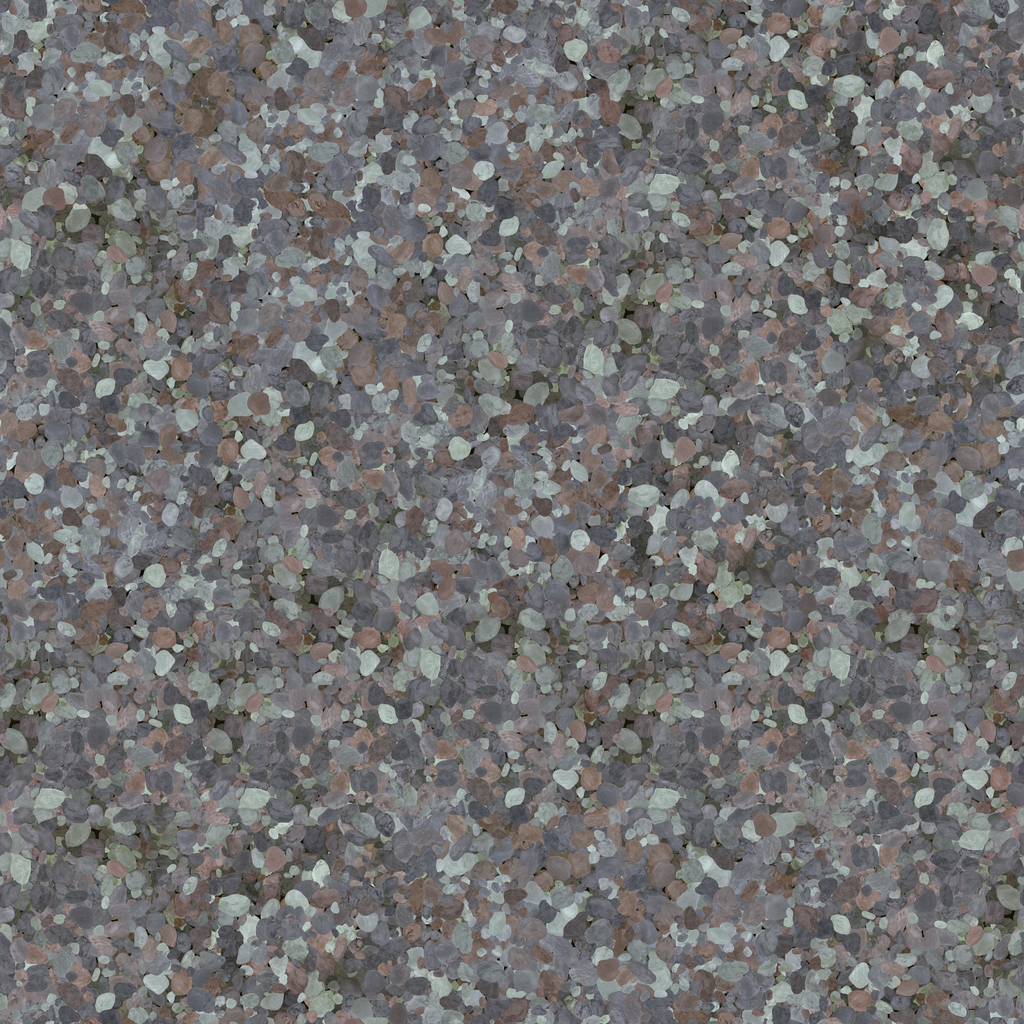
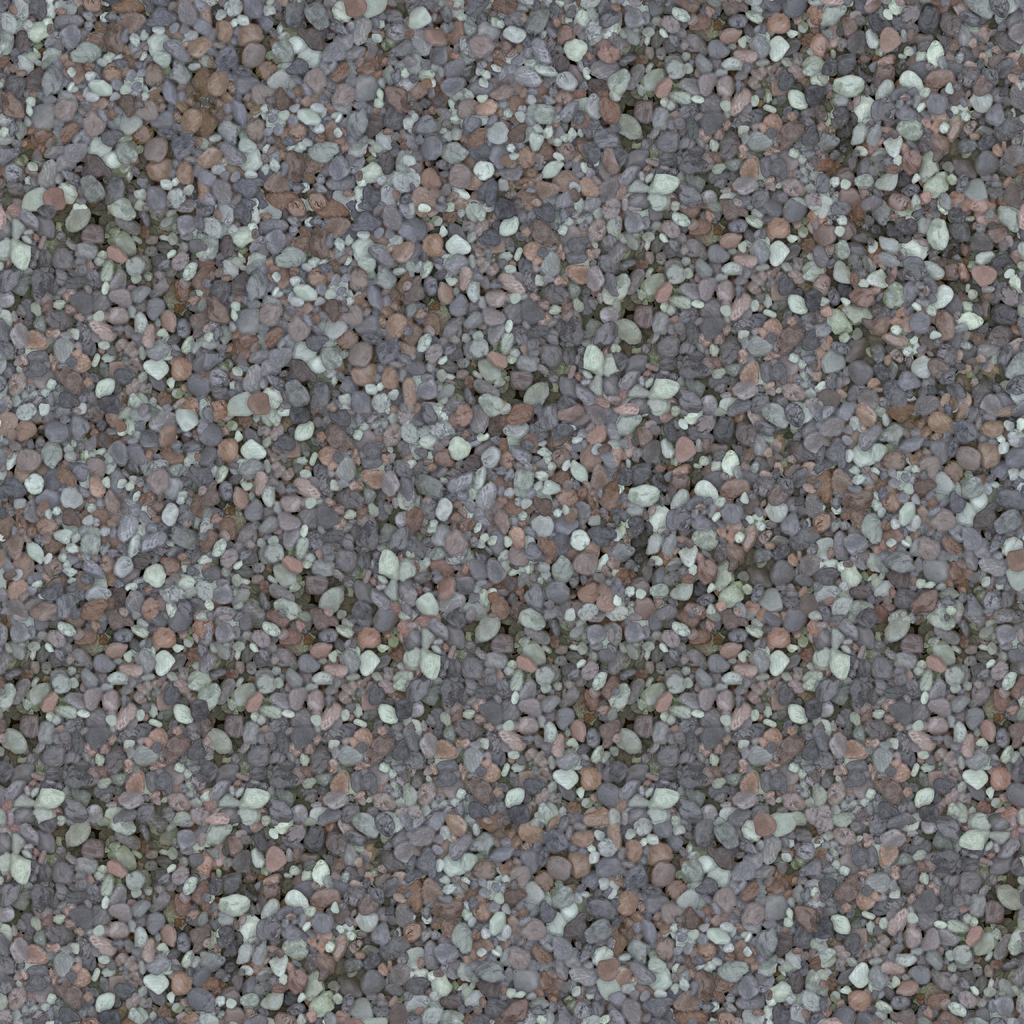
feat(pbr): world-scale families, AO+contrast albedo bake, tess heights; capture notes (wave 29)

diff --git a/tools/pbr_pack.py b/tools/pbr_pack.py
@@ -173,13 +173,18 @@ def linear_to_srgb(c):
     return np.where(c <= 0.0031308, c * 12.92, 1.055 * c ** (1 / 2.4) - 0.055)
 
 
-def detail_albedo(image, size):
-    """Neutral mean, mean linear luminance MEAN_LUMINANCE, local hue/value variation kept."""
+def detail_albedo(image, size, ao=None, contrast=1.0):
+    """Neutral mean, mean linear luminance MEAN_LUMINANCE, local hue/value variation kept. The source AO is
+    multiplied in (the original textures carry baked joint/crevice darkening) and the luminance deviation from
+    the mean is raised to `contrast` so joints read through the renderer's blurred-original tint."""
     rgb = srgb_to_linear(np.asarray(square(image.convert('RGB'), size)).astype(np.float64) / 255)
-    rgb = rgb / rgb.reshape(-1, 3).mean(0) * MEAN_LUMINANCE
-    # Clip-aware: highlights above 1 are rare at 0.18 mean; renormalise once after clipping.
-    rgb = np.clip(rgb, 0, 1)
-    rgb = rgb / (rgb.reshape(-1, 3).mean(0) / MEAN_LUMINANCE)
+    if ao is not None:
+        rgb = rgb * np.asarray(Image.fromarray(np.round(ao * 255).astype(np.uint8)).resize((size, size), Image.BICUBIC))[..., None] / 255
+    if contrast != 1.0:
+        lum = np.maximum(rgb @ LUMA, 1e-5)
+        rgb = rgb * ((lum / lum.mean()) ** (contrast - 1))[..., None]
+    for _ in range(3):  # clip-aware renormalisation to the neutral 0.18 mean
+        rgb = np.clip(rgb / rgb.reshape(-1, 3).mean(0) * MEAN_LUMINANCE, 0, 1)
     return Image.fromarray(np.round(linear_to_srgb(rgb) * 255).astype(np.uint8))
 
 
@@ -215,10 +220,10 @@ def build_material(spec, params, zf, out):
         a = np.asarray(square(image, w).resize((w // repeat, w // repeat), Image.LANCZOS))
         return Image.fromarray(np.tile(a, (repeat, repeat) + (1,) * (a.ndim - 2)))
 
-    if not spec.get('micro'):
-        detail_albedo(load('Color'), size).save(out / 'albedo.png', optimize=True)
-    normal_map(load('NormalGL'), size, spec.get('normal_strength', 1.0)).save(out / 'normal.png', optimize=True)
     ao = gray(load('AmbientOcclusion'), aux, 1.0)
+    if not spec.get('micro'):
+        detail_albedo(load('Color'), size, ao, spec.get('contrast', 1.0)).save(out / 'albedo.png', optimize=True)
+    normal_map(load('NormalGL'), size, spec.get('normal_strength', 1.0)).save(out / 'normal.png', optimize=True)
     rough = np.clip(gray(load('Roughness'), aux, 0.65) + spec.get('roughness_bias', 0.0), 0.04, 1)
     metal = gray(load('Metalness'), aux, 0.0) * spec.get('metal_scale', 1.0)
     orm = np.stack([ao, rough, metal], -1)

diff --git a/docs/KNOWN_ISSUES.md b/docs/KNOWN_ISSUES.md
@@ -30,7 +30,7 @@
 - **RT horizon frame rate (wave 28, NONCANONICAL):** GI and glossy-reflection rays started from blended alpha-tested draws (foliage, grass) skip the alpha test, so neighbouring leaf and blade quads occlude them as whole quads. Sun rays keep the test. Crops matched at the noise floor, but a very sparse leaf texture right next to a lit surface could now darken its GI slightly. Looking at the horizon is still about 2× the default view in RT faithful: hidden layers of blended foliage are still shaded, because blended draws do not write depth, and GI from far opaque surfaces is incoherent. A depth prepass for blended draws would save another 1.3–6.6 ms but changes tree trunks that show their inner faces today; an exact version needs a draw-order owner buffer (`analysis/porting-wave28/Horizon/`).
 - **Sparse far indirect (wave 28, NONCANONICAL, Vulkan RT with the guided denoiser):** beyond view depth 100, GI and glossy-reflection rays are traced once per 16 frames per pixel; the resolve fills the gaps from neighbours and history. Pixels without resolved history (seabed seen through the water, disocclusions) still trace every frame. Converged static images match at the run-to-run noise floor. Far indirect light now reacts more slowly: a far moving caster's indirect shadow or a sudden far lighting change takes up to 16× more frames to settle. Layers under semi-transparent foliage use the reprojected previous estimate in their raw colour, which is wrong at reprojection edges. Frame-generation GPU timings were not measured reliably on the 60 Hz private compositor. `IKV_RT_SPARSE_GI=0` restores full tracing.
 - **GL/Vulkan fog parity (wave 28, NONCANONICAL, enhanced appearance):** enhanced GL now applies the record fog and tonemaps its backdrop and sky domes like Vulkan, so enhanced GL far land is as white-hazed as Vulkan's and the original's (by design: the record fog, not the weather) and its skyless-zone sky is brighter than before. Residual GL vs Vulkan difference: alpha-blended tree canopies are blended in display space on GL and in linear HDR on Vulkan (Eminönü park canopy up to ~10 luma lighter on Vulkan), as with particles. Only Sivri Ada and the Eminönü park were captured. `analysis/porting-wave28/Fog/`.
-- **PBR texture pack (wave 29, NONCANONICAL, enhanced appearance only):** surfaces mapped to a family material show the CC0 pack's pattern, not the original's: cobbles, slabs, bricks and planks keep each surface's original brightness and hue (blurred original × detail-normalised pack albedo) but the stone/brick/plank layout, joint widths and feature size come from the pack (tread-plate diamonds are ~3× finer than the originals, the herringbone runs diagonally; hexagon paving is tiled 2×2 to match). The pack's planks run horizontally in texture space, so vertically authored plank textures were moved to micro-detail instead. 76 of the 503 eligible keys stay unmapped (signs, posters, clothes, foliage, weapons, books, cables, placeholders); 301 atlas keys get only world-space micro normal/roughness detail with the original albedo. Height is a 512² 16-bit map, so tessellated cobbles are soft at close range. Families were classified by eye from contact sheets; misclassified keys are fixed by editing `assets/pbr/manifest.json` (`tools/pbr_pack.py preview` shows each family against its originals).
+- **PBR texture pack (wave 29, NONCANONICAL, enhanced appearance only):** surfaces mapped to a family material show the CC0 pack's pattern, not the original's: cobbles, slabs, bricks and planks keep each surface's original brightness and hue (blurred original × detail-normalised pack albedo) but the stone/brick/plank layout, joint widths and feature size come from the pack (world-space projection at a real-world tile size, so courses and joints do not follow the original UV layout or wall edges; the herringbone runs diagonally). The pack's planks are projected along one world axis, so vertically authored plank textures were moved to micro-detail instead. 76 of the 503 eligible keys stay unmapped (signs, posters, clothes, foliage, weapons, books, cables, placeholders); 301 atlas keys get only world-space micro normal/roughness detail with the original albedo. Height is a 512² 16-bit map, so tessellated cobbles are soft at close range. Open: on the Eminönü terrain patch beside the shops (`arnavut_kaldirim`/`toprak` around 1279.8,1517.3) the pack's detail barely shows (UVs verified sane by PbrRenderer's debug view; cause not found: low-frequency term, fade layer or LOD); the final AO/contrast pack and 3 m cobble tile were not re-captured in all four zones (Mısır, Topkapı, Sivri Ada A/B not completed). Families were classified by eye from contact sheets; misclassified keys are fixed by editing `assets/pbr/manifest.json` (`tools/pbr_pack.py preview` shows each family against its originals).
 - **Admin preset kits (wave 26, NONCANONICAL):** the best equipment/potion sets are chosen from catalogue stats (armour, weapon mean damage per attack time, heal/Kudret amount) for the class, sex and level; they ignore Efsun prefixes, set bonuses and lonca-only items, and some slots (often head at low levels) have no fitting item.
 - **Admin player management (wave 26, NONCANONICAL):** item/Para/XP grants, item removal and heal reach only characters online in the world; offline characters are refused (`offline`), and editing a saved state offline is not offered. Commands sent from the in-game Yönetici Paneli go to the world directly, so they appear in the world action log and the admin's own `admin_result`, not in the auth `audit_events` table (web commands are audited as `world.<command>`).
 - **Parties (wave 15):** groups are still in-memory only (lost on world restart). Cross-zone invites are NONCANONICAL. A party formed across instance copies is not merged until members re-enter through a door. Phasing is not implemented.

diff --git a/docs/PROGRESS.md b/docs/PROGRESS.md
@@ -237,10 +237,11 @@ Verification: `build-full`, `build-gl-only` **19/19** (100.4 s / 98.6 s) and `bu
 
 ### PBR texture pack (`assets/pbr`, NONCANONICAL, enhanced appearance only)
 
-- **Pack:** 34 materials converted from CC0 ambientCG 1K-PNG sets (no original content and nothing derived from it): `albedo.png` (1024, *detail-normalised*: neutral mean, mean linear luminance 0.18, so the renderer multiplies it by the blurred original diffuse / 0.18 and every surface keeps its original brightness and hue), `normal.png` (1024, OpenGL +Y), `orm.png` (512, AO/roughness/metalness) and a 16-bit `height.png` (512) only where `tessellate`/`parallax` is set. 143 MB. Sources and licence per material: `assets/pbr/SOURCES.md`.
-- **Mapping:** `assets/pbr/manifest.json` maps **427 of the 503** keys the renderer accepts (`ikv-assets pbr-keys`: water, ocean, sky, actors, cut-out, blended and environment-mapped materials excluded). 126 tiling surfaces (cobbles, paving, flagstones, bricks, stone blocks, rubble walls, plaster, concrete, marble, roof tiles, planks, dirt, cracked mud, grass, moss, sand, gravel, rock, bark, painted/rusty/tread metal, fabric) take a full family material at the original UV (`scale` null). 301 atlas keys (facades, monuments, machines, crates, boulders) take a world-space micro-detail material (`micro_plaster/stone/wood/metal/rock`: normal + ORM only, original albedo kept, `tint_keep_original` 1). Tessellation only for ground cobbles, paving, flagstones, roof tiles, dirt, gravel and rock. Families were chosen by looking at contact sheets of every original texture (`tools/pbr_pack.py sheets`/`preview`), then remapped after preview review (hieroglyph and banded walls, vertical planks, atlas-like floors moved to micro-detail).
+- **Pack:** 34 materials converted from CC0 ambientCG 1K-PNG sets (no original content and nothing derived from it): `albedo.png` (1024, *detail-normalised*: neutral mean, mean linear luminance 0.18, so the renderer multiplies it by the blurred original diffuse / 0.18 and every surface keeps its original brightness and hue), `normal.png` (1024, OpenGL +Y; albedo has the source AO multiplied in and, for patterned families, luminance contrast 1.5 so joints read through the blurred-original tint), `orm.png` (512, AO/roughness/metalness) and a 16-bit `height.png` (512) only where `tessellate`/`parallax` is set. 143 MB. Sources and licence per material: `assets/pbr/SOURCES.md`.
+- **Mapping:** `assets/pbr/manifest.json` maps **427 of the 503** keys the renderer accepts (`ikv-assets pbr-keys`: water, ocean, sky, actors, cut-out, blended and environment-mapped materials excluded). 126 tiling surfaces (cobbles, paving, flagstones, bricks, stone blocks, rubble walls, plaster, concrete, marble, roof tiles, planks, dirt, cracked mud, grass, moss, sand, gravel, rock, bark, painted/rusty/tread metal, fabric) take a full family material projected in world space at its real tile size (`scale` 1–3.2 m per tile; terrain UVs span many metres per original tile, so original-UV tiling smeared the pack). 301 atlas keys (facades, monuments, machines, crates, boulders) take a world-space micro-detail material (`micro_plaster/stone/wood/metal/rock`: normal + ORM only, original albedo kept, `tint_keep_original` 1). Tessellation only for ground cobbles, paving, flagstones, roof tiles, dirt, gravel and rock. Families were chosen by looking at contact sheets of every original texture (`tools/pbr_pack.py sheets`/`preview`), then remapped after preview review (hieroglyph and banded walls, vertical planks, atlas-like floors moved to micro-detail).
 - **Tool:** `tools/pbr_pack.py` (`inventory`, `sheets`, `preview` read the original installation read-only; `build` downloads the ambientCG ZIPs into `~/.cache/ikv-pbr` and regenerates every image and `SOURCES.md` from `assets/pbr/sources.json` + `manifest.json`; `check` validates names, sizes, keys and reports the size). `.gitignore` now tracks `assets/pbr/` while still ignoring the rest of `assets/`.
 - **Coverage by zone (mapped keys / eligible, placements):** Eminönü 24/30 (3404/4109), Mısır Çarşısı 6/10 (2244/2263), Topkapı 41/45 (336/366), Sivri Ada 15/19 (3425/4016); all zones in `analysis/porting-wave29/PbrTextures/coverage.txt`. Unmapped: signs, posters, characters' clothes, foliage, weapons, books, cables, ropes, cocoons, mushrooms, flat untextured placeholders.
+- **Verification (with PbrRenderer's uncommitted build-rel, `IKV_PBR_DIR=off` vs pack):** Eminönü street cobbles show the pack's fan pattern on GL and VK (identical), first pass flatter and finer than the original's POM relief, hence the AO/contrast bake and cobble tile 1.5 → 3 m; Eminönü terrain beside the shops (cobbles/dirt in shadow) still reads nearly uniform with the pack (open, see KNOWN_ISSUES). Captures: `analysis/porting-wave29/PbrTextures/ab1/`, `try1/`, script `cap.sh`; per-family previews `preview/`.
 
 ## 2026-11-13 wave 28 (0.14.0): wind-shaped sea, sparse puddles, footsteps in puddles and snow, dripping characters, horizon frame rate
 
